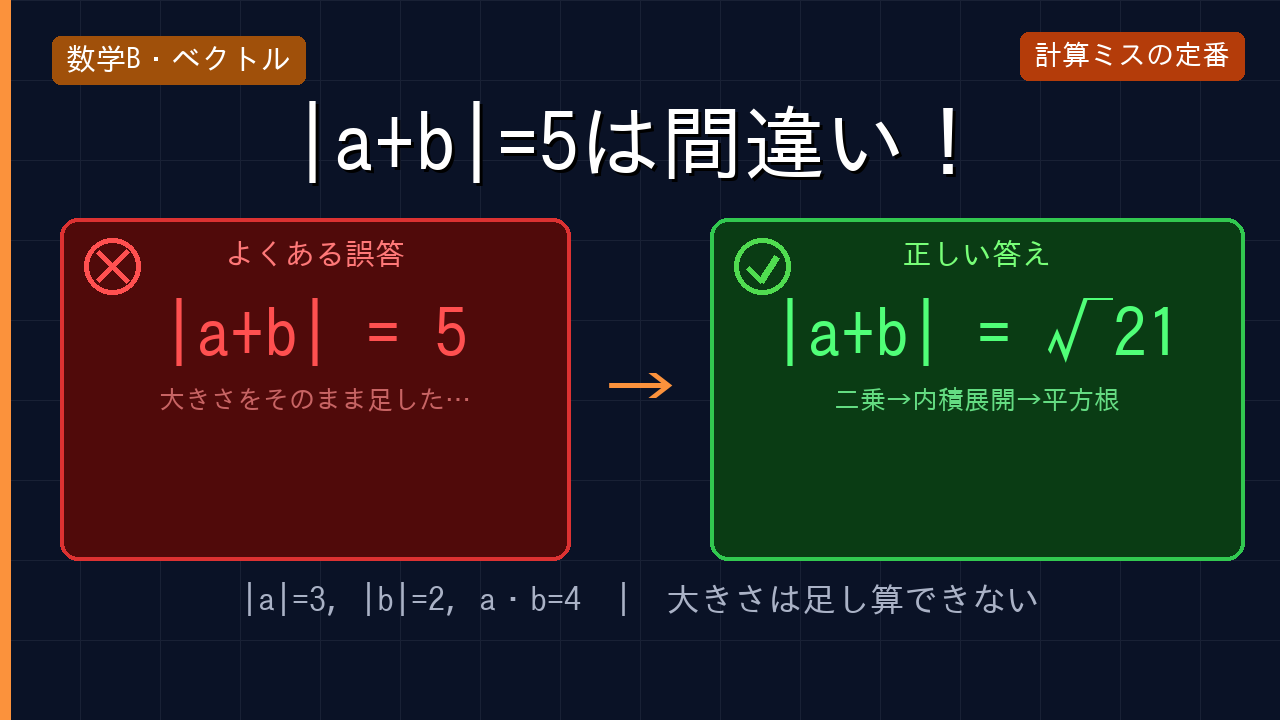
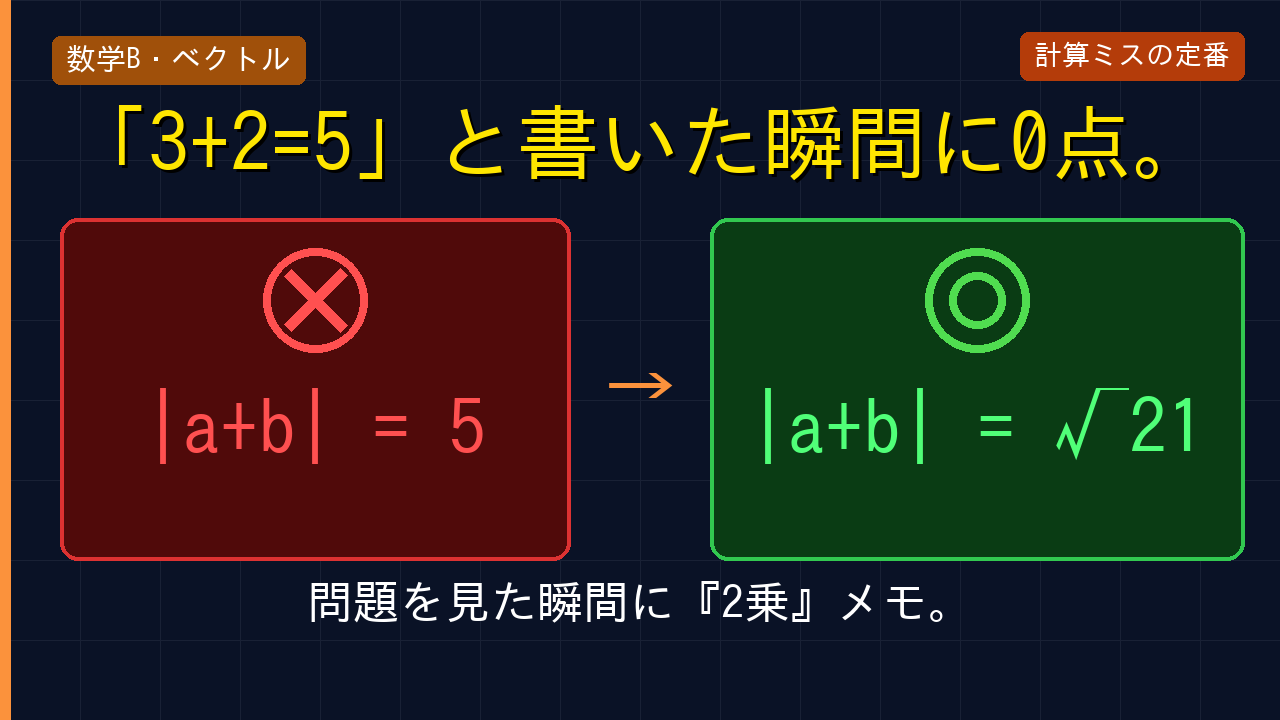
feat: mathB-07 サムネイルをCTR最大化デザインに刷新
- compact モード追加：巨大×/◎アイコン＋式のみ（ラベル・説明文廃止）
- top_copy_color キー追加：極太黄色文字に対応
- ボトムコピーを白・大文字で表示
- mathB-07: 「3+2=5」と書いた瞬間に0点。/ ×|a+b|=5 vs ◎|a+b|=√21

https://claude.ai/code/session_01NDAV6KmttzK1jEoWGKDVBj

diff --git a/tools/make_thumbnails.py b/tools/make_thumbnails.py
@@ -521,23 +521,33 @@ def make_thumbnail_vs(stem, config):
         draw.text((bx + 14, 40), config['badge_text'], font=b_fnt, fill=(255, 255, 255))
 
     # ── トップコピー（中央）
-    tc_fnt = font(82)
-    tc     = config['top_copy']
-    tc_w   = draw.textlength(tc, font=tc_fnt)
-    draw.text(((W - tc_w) / 2 + 3, 103), tc, font=tc_fnt, fill=(0, 0, 0, 100))
-    draw.text(((W - tc_w) / 2,     100), tc, font=tc_fnt, fill=(255, 255, 255))
+    tc_fnt   = font(82)
+    tc       = config['top_copy']
+    tc_color = config.get('top_copy_color', (255, 255, 255))
+    tc_w     = draw.textlength(tc, font=tc_fnt)
+    draw.text(((W - tc_w) / 2 + 3, 103), tc, font=tc_fnt, fill=(0, 0, 0))
+    draw.text(((W - tc_w) / 2,     100), tc, font=tc_fnt, fill=tc_color)
+
+    compact = config.get('compact', False)
 
     def draw_cross_icon(cx, cy, r, clr):
         """❌ の代替：円 + ×線を PIL で描画"""
-        draw.ellipse([cx - r, cy - r, cx + r, cy + r], outline=clr, width=5)
+        draw.ellipse([cx - r, cy - r, cx + r, cy + r], outline=clr, width=max(5, r // 6))
         m = int(r * 0.55)
-        draw.line([cx - m, cy - m, cx + m, cy + m], fill=clr, width=6)
-        draw.line([cx + m, cy - m, cx - m, cy + m], fill=clr, width=6)
+        lw = max(6, r // 5)
+        draw.line([cx - m, cy - m, cx + m, cy + m], fill=clr, width=lw)
+        draw.line([cx + m, cy - m, cx - m, cy + m], fill=clr, width=lw)
+
+    def draw_maru_icon(cx, cy, r, clr):
+        """◎ の代替：二重円を PIL で描画"""
+        lw = max(5, r // 6)
+        draw.ellipse([cx - r,           cy - r,           cx + r,           cy + r],           outline=clr, width=lw)
+        r2 = int(r * 0.55)
+        draw.ellipse([cx - r2,          cy - r2,          cx + r2,          cy + r2],          outline=clr, width=lw)
 
     def draw_check_icon(cx, cy, r, clr):
         """✅ の代替：円 + チェックマークを PIL で描画"""
         draw.ellipse([cx - r, cy - r, cx + r, cy + r], outline=clr, width=5)
-        # チェック: 左下→中央底→右上
         m = int(r * 0.55)
         pts = [cx - m, cy + int(m * 0.1),
                cx - int(m * 0.1), cy + m,
@@ -549,24 +559,29 @@ def make_thumbnail_vs(stem, config):
     LX0, LX1 = 60, 570
     draw_rect_rounded(draw, [LX0, BOX_Y0, LX1, BOX_Y1], radius=18,
                       fill=(80, 10, 10), outline=(220, 50, 50), width=4)
-    # × アイコン（PIL 描画）
-    draw_cross_icon(LX0 + 52, BOX_Y0 + 48, 28, (255, 80, 80))
-    # 小ラベル
-    hl_fnt = font(30)
-    hl_w   = draw.textlength(config['hell_label'], font=hl_fnt)
-    draw.text(((LX0 + LX1) / 2 - hl_w / 2, BOX_Y0 + 20),
-              config['hell_label'], font=hl_fnt, fill=(255, 120, 120))
-    # メイン値
-    hv_fnt = font(68)
-    hv_w   = draw.textlength(config['hell_value'], font=hv_fnt)
-    draw.text(((LX0 + LX1) / 2 - hv_w / 2, BOX_Y0 + 80),
-              config['hell_value'], font=hv_fnt, fill=(255, 80, 80))
-    # 補足テキスト
-    if config.get('hell_note'):
-        hn_fnt = font(26)
-        hn_w   = draw.textlength(config['hell_note'], font=hn_fnt)
-        draw.text(((LX0 + LX1) / 2 - hn_w / 2, BOX_Y0 + 168),
-                  config['hell_note'], font=hn_fnt, fill=(200, 100, 100))
+    if compact:
+        # compact: 巨大 × アイコン（中央上部） + 巨大値（中央下部）
+        box_cx = (LX0 + LX1) // 2
+        draw_cross_icon(box_cx, BOX_Y0 + 82, 52, (255, 80, 80))
+        hv_fnt = font(76)
+        hv_w   = draw.textlength(config['hell_value'], font=hv_fnt)
+        draw.text((box_cx - hv_w / 2, BOX_Y0 + 170), config['hell_value'],
+                  font=hv_fnt, fill=(255, 80, 80))
+    else:
+        draw_cross_icon(LX0 + 52, BOX_Y0 + 48, 28, (255, 80, 80))
+        hl_fnt = font(30)
+        hl_w   = draw.textlength(config['hell_label'], font=hl_fnt)
+        draw.text(((LX0 + LX1) / 2 - hl_w / 2, BOX_Y0 + 20),
+                  config['hell_label'], font=hl_fnt, fill=(255, 120, 120))
+        hv_fnt = font(68)
+        hv_w   = draw.textlength(config['hell_value'], font=hv_fnt)
+        draw.text(((LX0 + LX1) / 2 - hv_w / 2, BOX_Y0 + 80),
+                  config['hell_value'], font=hv_fnt, fill=(255, 80, 80))
+        if config.get('hell_note'):
+            hn_fnt = font(26)
+            hn_w   = draw.textlength(config['hell_note'], font=hn_fnt)
+            draw.text(((LX0 + LX1) / 2 - hn_w / 2, BOX_Y0 + 168),
+                      config['hell_note'], font=hn_fnt, fill=(200, 100, 100))
 
     # ── 中央矢印
     arr_fnt = font(72)
@@ -578,32 +593,38 @@ def make_thumbnail_vs(stem, config):
     RX0, RX1 = 710, W - 36
     draw_rect_rounded(draw, [RX0, BOX_Y0, RX1, BOX_Y1], radius=18,
                       fill=(10, 60, 20), outline=(50, 200, 80), width=4)
-    # チェック アイコン（PIL 描画）
-    draw_check_icon(RX0 + 52, BOX_Y0 + 48, 28, (80, 220, 80))
-    # 小ラベル
-    vl_fnt = font(30)
-    vl_w   = draw.textlength(config['heaven_label'], font=vl_fnt)
-    draw.text(((RX0 + RX1) / 2 - vl_w / 2, BOX_Y0 + 20),
-              config['heaven_label'], font=vl_fnt, fill=(120, 255, 120))
-    # メイン値
-    vv_fnt = font(68)
-    vv_w   = draw.textlength(config['heaven_value'], font=vv_fnt)
-    draw.text(((RX0 + RX1) / 2 - vv_w / 2, BOX_Y0 + 80),
-              config['heaven_value'], font=vv_fnt, fill=(80, 255, 120))
-    # 補足テキスト
-    if config.get('heaven_note'):
-        vn_fnt = font(26)
-        vn_w   = draw.textlength(config['heaven_note'], font=vn_fnt)
-        draw.text(((RX0 + RX1) / 2 - vn_w / 2, BOX_Y0 + 168),
-                  config['heaven_note'], font=vn_fnt, fill=(100, 220, 130))
+    if compact:
+        # compact: 巨大 ◎ アイコン（中央上部） + 巨大値（中央下部）
+        box_cx = (RX0 + RX1) // 2
+        draw_maru_icon(box_cx, BOX_Y0 + 82, 52, (80, 220, 80))
+        vv_fnt = font(76)
+        vv_w   = draw.textlength(config['heaven_value'], font=vv_fnt)
+        draw.text((box_cx - vv_w / 2, BOX_Y0 + 170), config['heaven_value'],
+                  font=vv_fnt, fill=(80, 255, 120))
+    else:
+        draw_check_icon(RX0 + 52, BOX_Y0 + 48, 28, (80, 220, 80))
+        vl_fnt = font(30)
+        vl_w   = draw.textlength(config['heaven_label'], font=vl_fnt)
+        draw.text(((RX0 + RX1) / 2 - vl_w / 2, BOX_Y0 + 20),
+                  config['heaven_label'], font=vl_fnt, fill=(120, 255, 120))
+        vv_fnt = font(68)
+        vv_w   = draw.textlength(config['heaven_value'], font=vv_fnt)
+        draw.text(((RX0 + RX1) / 2 - vv_w / 2, BOX_Y0 + 80),
+                  config['heaven_value'], font=vv_fnt, fill=(80, 255, 120))
+        if config.get('heaven_note'):
+            vn_fnt = font(26)
+            vn_w   = draw.textlength(config['heaven_note'], font=vn_fnt)
+            draw.text(((RX0 + RX1) / 2 - vn_w / 2, BOX_Y0 + 168),
+                      config['heaven_note'], font=vn_fnt, fill=(100, 220, 130))
 
     # ── ボトムコピー
     if config.get('bottom_copy'):
-        bc_fnt = font(34)
-        bc_w   = draw.textlength(config['bottom_copy'], font=bc_fnt)
-        draw.text(((W - bc_w) / 2, BOX_Y1 + 22),
-                  config['bottom_copy'], font=bc_fnt,
-                  fill=tuple(min(255, c + 160) for c in bg))
+        bc_size = 46 if compact else 34
+        bc_clr  = (255, 255, 255) if compact else tuple(min(255, c + 160) for c in bg)
+        bc_fnt  = font(bc_size)
+        bc_w    = draw.textlength(config['bottom_copy'], font=bc_fnt)
+        draw.text(((W - bc_w) / 2, BOX_Y1 + 18),
+                  config['bottom_copy'], font=bc_fnt, fill=bc_clr)
 
     out_path = OUT_DIR / f'{stem}.png'
     img.save(out_path, 'PNG')
@@ -630,20 +651,18 @@ VS_THUMBNAILS = {
         bottom_copy  = 'log(1/2) x > -1  |  底が1未満で答えが丸ごと逆になる',
     ),
     'mathB-07_vector_magnitude': dict(
-        bg_color     = (10, 18, 38),         # 深紺
-        accent       = (251, 146, 60),        # 橙
-        subject_tag  = '数学B・ベクトル',
-        subject_color= (160, 80, 10),
-        badge_text   = '計算ミスの定番',
-        badge_color  = (180, 60, 10),
-        top_copy     = '|a+b|=5は間違い！',
-        hell_label   = 'よくある誤答',
-        hell_value   = '|a+b| = 5',
-        hell_note    = '大きさをそのまま足した…',
-        heaven_label = '正しい答え',
-        heaven_value = '|a+b| = √21',
-        heaven_note  = '二乗→内積展開→平方根',
-        bottom_copy  = '|a|=3, |b|=2, a・b=4  |  大きさは足し算できない',
+        bg_color      = (10, 18, 38),          # 深紺
+        accent        = (251, 146, 60),         # 橙
+        subject_tag   = '数学B・ベクトル',
+        subject_color = (160, 80, 10),
+        badge_text    = '計算ミスの定番',
+        badge_color   = (180, 60, 10),
+        top_copy      = '「3+2=5」と書いた瞬間に0点。',
+        top_copy_color= (255, 230, 0),          # 極太黄色
+        compact       = True,
+        hell_value    = '|a+b| = 5',
+        heaven_value  = '|a+b| = √21',
+        bottom_copy   = "問題を見た瞬間に『2乗』メモ。",
     ),
 }
 
